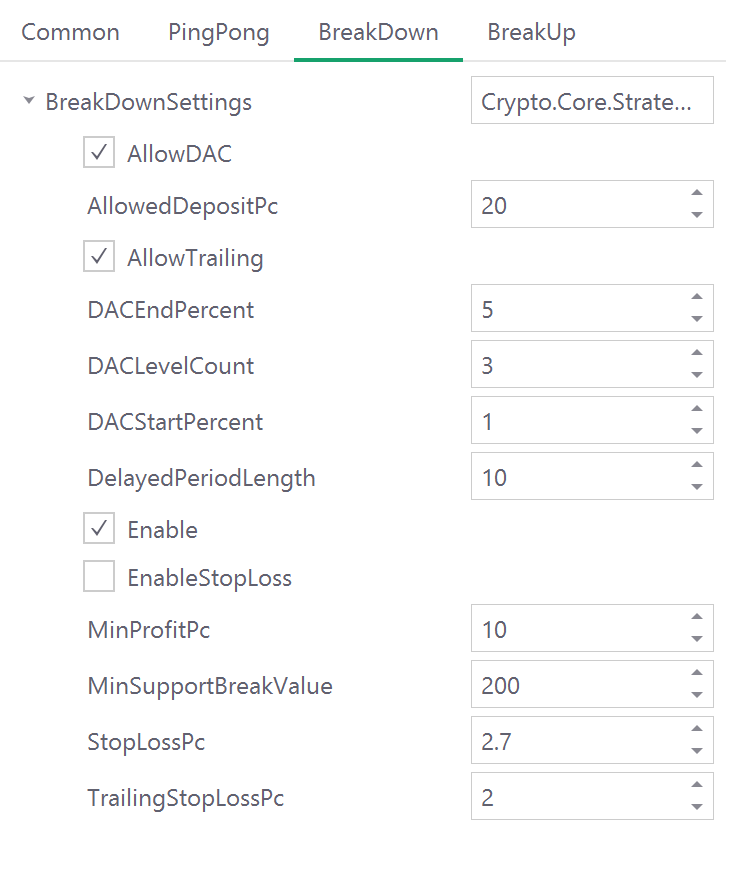
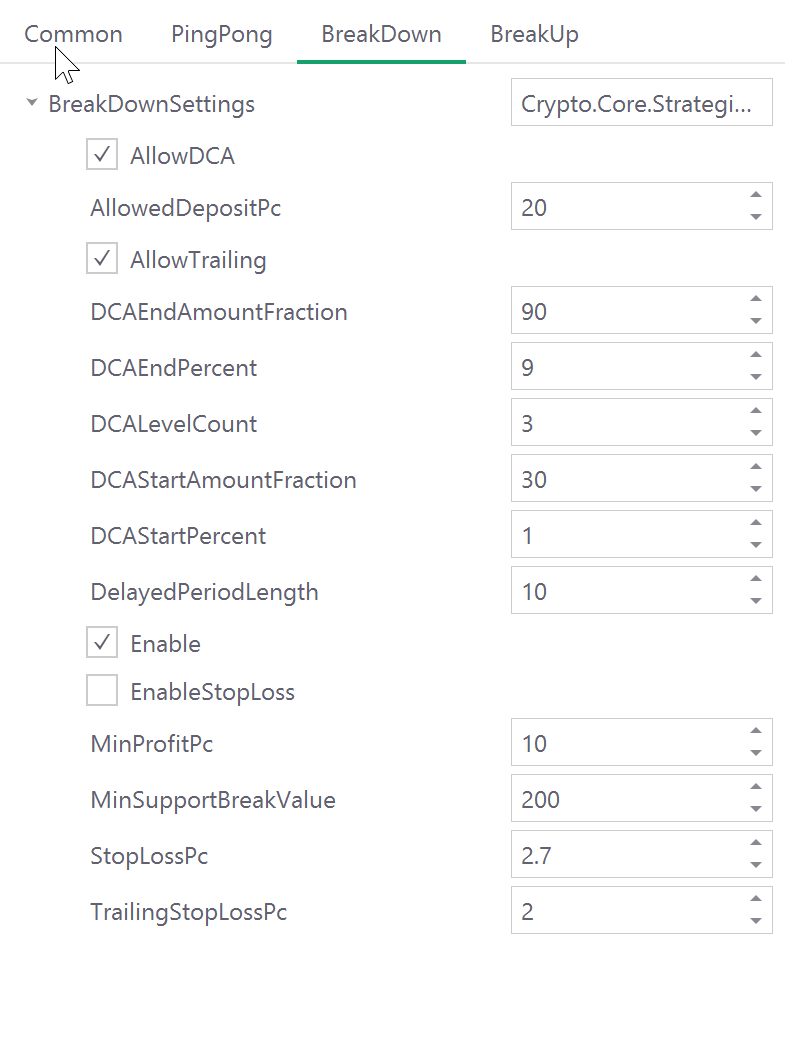
media

diff --git a/Crypto.Core/Common/OrderGrid/OrderGridInfo.cs b/Crypto.Core/Common/OrderGrid/OrderGridInfo.cs
@@ -54,23 +54,23 @@ namespace Crypto.Core.Common.OrderGrid {
                 if(value > Start.Value)
                     return -1;
             }
-            double delta = (End.Value - Start.Value) / LineCount;
+            double delta = (End.Value - Start.Value) / (LineCount - 1);
             int index = (int)((value - Start.Value) / delta);
             return index;
         }
 
         public virtual double GetZoneArgument(int zoneIndex) {
-            double delta = (End.Value - Start.Value) / LineCount;
+            double delta = (End.Value - Start.Value) / (LineCount - 1);
             return Start.Value + delta * zoneIndex;
         }
 
         public virtual double GetAmountInPc(double value) {
             int index = GetZoneIndex(value);
-            return Start.AmountPercent + (End.AmountPercent - Start.AmountPercent) / LineCount * index;
+            return Start.AmountPercent + (End.AmountPercent - Start.AmountPercent) / (LineCount - 1) * index;
         }
 
         public virtual double GetAmountInPc(int zoneIndex) {
-            return Start.AmountPercent + (End.AmountPercent - Start.AmountPercent) / LineCount * zoneIndex;
+            return Start.AmountPercent + (End.AmountPercent - Start.AmountPercent) / (LineCount - 1) * zoneIndex;
         }
 
         public virtual void Assign(OrderGridInfo info) {
@@ -81,7 +81,7 @@ namespace Crypto.Core.Common.OrderGrid {
 
         public void Normalize() {
             double sum = 0;
-            double delta = (End.AmountPercent - Start.AmountPercent) / LineCount;
+            double delta = (End.AmountPercent - Start.AmountPercent) / (LineCount - 1);
 
             for(int i = 0; i < LineCount; i++) {
                 double amountPc = Start.AmountPercent + i * delta;

diff --git a/Crypto.Core/Strategies/Custom/TaSimpleStrategy.cs b/Crypto.Core/Strategies/Custom/TaSimpleStrategy.cs
@@ -118,7 +118,7 @@ namespace Crypto.Core.Strategies.Custom {
                 dacEnd = value * (100 - settings.DCAEndPercent) * 0.01;
 
             info.AllowDCA = true;
-            info.InitializeDCA(dacStart, dacEnd, info.Amount, 3);
+            info.InitializeDCA(dacStart, dacEnd, info.Amount, 3, settings.DCAStartAmountFraction, settings.DCAEndAmountFraction);
         }
         protected void InitializeDac(OpenPositionInfo info, TaSettingsBase settings) {
             double value = info.OpenValue;
@@ -130,7 +130,7 @@ namespace Crypto.Core.Strategies.Custom {
                 dacEnd = value * (100 - settings.DCAEndPercent) * 0.01;
 
             info.AllowDCA = true;
-            info.InitializeDCA(dacStart, dacEnd, info.Amount, 3);
+            info.InitializeDCA(dacStart, dacEnd, info.Amount, 3, settings.DCAStartAmountFraction, settings.DCAEndAmountFraction);
         }
         protected virtual void UpdateCurrentLoss() {
             if(StrategyData.Count > 0) {
@@ -467,8 +467,13 @@ namespace Crypto.Core.Strategies.Custom {
 
         [InputParameter(1, 50, 0.1)]
         public double DCAStartPercent { get; set; } = 1;
+        [InputParameter(1, 50, 1)]
+        public double DCAStartAmountFraction { get; set; } = 30;
         [InputParameter(1, 50, 0.1)]
         public double DCAEndPercent { get; set; } = 5;
+        [InputParameter(1, 50, 1)]
+        public double DCAEndAmountFraction { get; set; } = 90;
+        [InputParameter(2, 5, 1)]
         public int DCALevelCount { get; set; } = 3;
 
         public bool EnableStopLoss { get; set; }

diff --git a/Crypto.Core/Common/OpenPositionInfo.cs b/Crypto.Core/Common/OpenPositionInfo.cs
@@ -42,7 +42,7 @@ namespace Crypto.Core.Common {
         public bool AllowDCA { get; set; }
         public OrderGridInfo DCAInfo { get; set; }
         public double DCATotalAmount { get; set; }
-        public void InitializeDCA(double openValue, double probableMin, double amount, int stepCount) {
+        public void InitializeDCA(double openValue, double probableMin, double amount, int stepCount, double startAmountPc, double endAmountPc) {
             DCAInfo = new OrderGridInfo();
             DCAInfo.Start.AmountPercent = 30;
             DCAInfo.Start.Value = openValue;
